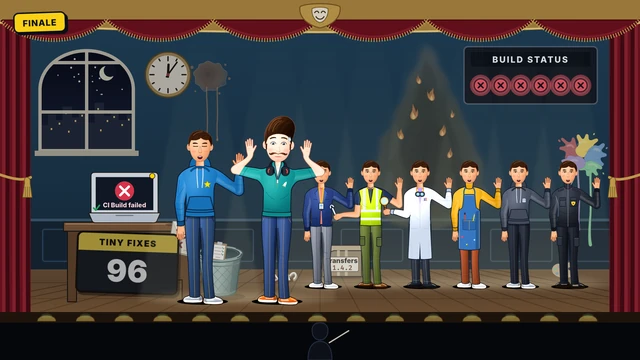
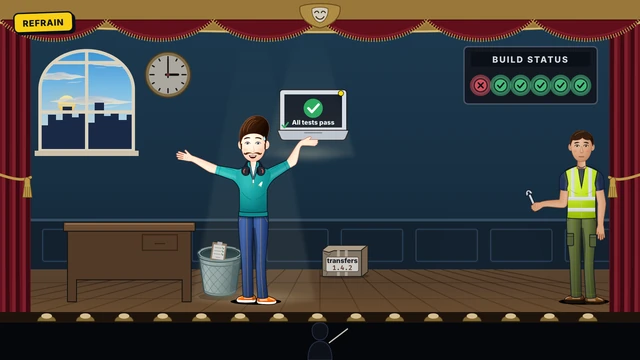
Polish My Teammate skies and parcel lighting

diff --git a/js/song-video/opera-house.js b/js/song-video/opera-house.js
@@ -30,6 +30,53 @@
   const SKIES = ['day', 'dusk', 'night', 'dawn'];
   const BOARD_LAMPS = 6;
 
+  // Thin, uneven banks suit the small city window. Their tapered ends and
+  // overlapping folds carry the volume without noisy texture or hard outlines.
+  const CLOUD_BANKS = [
+    { x: -22, y: 30, scale: 0.74, speed: 0.022, shade: 1.6,
+      shape: 'M0 12 C12 11 15 8 27 9 C35 10 38 4 49 5 C59 6 64 0 75 3 C84 5 85 8 96 8 C106 8 113 12 125 13 C110 15 103 14 94 17 C84 19 79 16 69 18 C59 20 52 17 42 18 C28 18 20 13 0 12 Z' },
+    { x: 77, y: 14, scale: 0.54, speed: 0.012, shade: 0.65,
+      shape: 'M0 13 C15 12 21 8 33 9 C43 10 45 5 56 6 C67 7 72 1 83 4 C94 7 99 5 109 10 C116 13 124 12 134 14 C116 15 108 18 96 17 C85 16 79 21 67 18 C53 16 46 19 35 16 C20 13 13 15 0 13 Z' },
+    { x: 12, y: 62, scale: 0.94, speed: 0.017, shade: 2.3,
+      shape: 'M0 15 C12 14 20 10 30 11 C40 12 44 6 55 7 C66 8 70 3 81 6 C92 9 98 8 108 12 C116 15 124 14 137 16 C122 17 115 20 104 19 C93 18 87 22 76 20 C64 18 58 22 46 19 C33 16 20 18 0 15 Z' },
+  ];
+
+  /** Layers in front of the celestial bodies, behind the city and mullions. */
+  function windowClouds(parent, defs, gradient) {
+    const ambient = gradient('oh-cloud-ambient', { x1: 0, y1: 0, x2: 0, y2: 1 }, ['0', '0.52', '1']);
+    const direct = gradient('oh-cloud-direct', { x1: 0, y1: 0, x2: 0, y2: 1 }, ['0', '0.55', '1']);
+    return CLOUD_BANKS.map((bank, i) => {
+      const node = svg('g', { class: 'oh-cloud', 'data-testid': 'oh-window-cloud' }, parent);
+      const form = svg('g', { transform: `scale(${bank.scale})` }, node);
+      const clipId = `oh-cloud-clip-${i}`;
+      svg('path', { d: bank.shape }, svg('clipPath', { id: clipId }, defs));
+      svg('path', { d: bank.shape, fill: ambient }, form);
+      const rim = svg('path', { class: 'oh-cloud-light', d: bank.shape, fill: direct }, form);
+      const folds = svg('g', { 'clip-path': `url(#${clipId})`, class: 'oh-cloud-folds' }, form);
+      svg('path', { d: bank.shape, transform: 'translate(20 5) scale(0.62 0.7)' }, folds);
+      svg('path', { class: 'oh-cloud-wisp', d: 'M7 21 C22 18 30 21 42 20 C34 24 24 23 7 21 Z M80 25 C92 21 100 24 115 20 C106 26 94 25 80 25 Z', fill: ambient }, form);
+      return { ...bank, node, rim };
+    });
+  }
+
+  /** Atmospheric detail uses the existing sky cue's blend, not a new clock.
+   * Low cloud banks lose their warm underside before the higher thin bank.
+   * Drift is slow, one-way, and deterministic; reduced motion holds it still. */
+  function lightWindow(back, t, sunNow, nightness) {
+    const warmth = Math.min(1, (1 - sunNow) / 0.7);
+    // Both the gradient stops in <defs> and their painted shapes inherit here.
+    back.art.style.setProperty('--oh-sky-warmth', `${(100 * warmth).toFixed(2)}%`);
+    back.art.style.setProperty('--oh-sky-night', `${(100 * nightness).toFixed(2)}%`);
+    back.haze.setAttribute('opacity', ((0.12 + 0.68 * warmth) * (1 - nightness)).toFixed(3));
+    back.sunGlow.setAttribute('cy', (150 - 70 * sunNow).toFixed(1));
+    back.sunGlow.setAttribute('opacity', (0.45 * sunNow).toFixed(3));
+    for (const cloud of back.clouds) {
+      const x = cloud.x + (reducedMotion.matches ? 0 : t * cloud.speed);
+      cloud.node.setAttribute('transform', `translate(${x.toFixed(2)} ${cloud.y})`);
+      cloud.rim.setAttribute('opacity', ((0.35 + 0.5 * warmth) * (1 - nightness) ** cloud.shade).toFixed(3));
+    }
+  }
+
   /** The value of cues [time, value, duration] at t, easing between them; numbers only. */
   function cued(cues, t, initial) {
     let value = initial;
@@ -65,17 +112,24 @@
     const pane = 'M0 150 V58 A70 58 0 0 1 140 58 V150 Z';
     const clip = svg('clipPath', { id: 'oh-window-clip' }, defs);
     svg('path', { d: pane }, clip);
-    const sky = svg('g', { 'clip-path': 'url(#oh-window-clip)' }, win);
+    const sky = svg('g', { class: 'oh-window-sky', 'data-testid': 'oh-window-sky', 'clip-path': 'url(#oh-window-clip)' }, win);
     const skies = SKIES.map((name) => {
-      const fill = gradient(`oh-sky-${name}`, { x1: 0, y1: 0, x2: 0, y2: 1 }, ['0', '1']);
+      const fill = gradient(`oh-sky-${name}`, { gradientUnits: 'userSpaceOnUse', x1: 0, y1: 0, x2: 0, y2: 150 }, ['0', '0.38', '0.7', '1']);
       return svg('rect', { class: `oh-sky oh-sky--${name}`, x: 0, y: 0, width: 140, height: 150, fill, opacity: name === 'day' ? 1 : 0 }, sky);
     });
     const stars = svg('g', { class: 'oh-stars', opacity: 0 }, sky);
     for (let i = 0; i < 16; i++) svg('circle', { cx: (10 + hash01(i * 7) * 120).toFixed(1), cy: (12 + hash01(i * 13) * 60).toFixed(1), r: (0.7 + hash01(i * 3) * 0.8).toFixed(2) }, stars);
+    const hazeFill = gradient('oh-horizon-haze', { cx: 0.5, cy: 0.5, r: 0.5 }, ['0', '0.45', '1'], 'radialGradient');
+    const haze = svg('ellipse', { class: 'oh-horizon-haze', cx: 40, cy: 98, rx: 104, ry: 64, fill: hazeFill }, sky);
+    const glowFill = gradient('oh-sun-glow', { cx: 0.5, cy: 0.5, r: 0.5 }, ['0', '0.4', '1'], 'radialGradient');
+    const sunGlow = svg('ellipse', { cx: 40, cy: 112, rx: 37, ry: 32, fill: glowFill }, sky);
     const moon = svg('g', { class: 'oh-moon', opacity: 0 }, sky);
+    svg('circle', { cx: 100, cy: 34, r: 11 }, svg('clipPath', { id: 'oh-moon-disc' }, defs));
     svg('circle', { cx: 100, cy: 34, r: 11 }, moon);
-    svg('circle', { class: 'oh-moon-shadow', cx: 105, cy: 30, r: 9.4 }, moon);
-    const sun = svg('circle', { class: 'oh-sun', cx: 40, cy: 112, r: 13 }, sky);
+    svg('circle', { class: 'oh-moon-shadow', cx: 105, cy: 30, r: 9.4, 'clip-path': 'url(#oh-moon-disc)' }, moon);
+    const sunFill = gradient('oh-sun-disc', { x1: 0, y1: 0, x2: 0, y2: 1 }, ['0', '0.55', '1']);
+    const sun = svg('circle', { class: 'oh-sun', cx: 40, cy: 112, r: 13, fill: sunFill }, sky);
+    const clouds = windowClouds(sky, defs, gradient);
     svg('path', { class: 'oh-skyline', d: 'M0 150 V112 H12 V96 H24 V104 H34 V84 H48 V100 H58 V90 H70 V108 H82 V78 H96 V98 H106 V92 H118 V104 H130 V96 H140 V150 Z' }, sky);
     const lit = svg('g', { class: 'oh-city-lights', opacity: 0 }, sky);
     for (const [x, y] of [[16, 116], [28, 108], [38, 92], [52, 104], [62, 96], [86, 86], [100, 104], [110, 98], [122, 110], [132, 102], [42, 120], [90, 118]]) {
@@ -127,7 +181,7 @@
     svg('path', { class: 'oh-floor-seam', d: `M0 ${OPENING.floor + 20} H${W} M0 ${OPENING.floor + 44} H${W}` }, art);
     svg('rect', { class: 'oh-floor-glow', x: 0, y: OPENING.floor + 18, width: W, height: OPENING.edge - OPENING.floor - 18, fill: gradient('oh-footglow', { x1: 0, y1: 0, x2: 0, y2: 1 }, ['0', '1']) }, art);
 
-    return { clock: { hourHand, minuteHand }, skies, stars, moon, sun, lit, lamps };
+    return { art, clock: { hourHand, minuteHand }, skies, stars, moon, sun, lit, lamps, haze, sunGlow, clouds };
   }
 
   /** A velvet drape with folds: its lit ridges and shadowed troughs. */
@@ -276,6 +330,7 @@
       const sunNow = sunUp(previous) + (sunUp(shown) - sunUp(previous)) * mix;
       back.sun.setAttribute('opacity', sunNow.toFixed(3));
       back.sun.setAttribute('cy', (150 - 70 * sunNow).toFixed(1));
+      lightWindow(back, t, sunNow, nightness);
       // The board: the latest cue's lamps, each lit after its delay.
       let cue = null;
       for (const c of boardCues) if (c[0] <= t) cue = c;

diff --git a/css/song-video-opera-house.css b/css/song-video-opera-house.css
@@ -26,18 +26,47 @@
 /* The window and its skies. */
 .oh-window-frame { fill: none; stroke: #e7dfcb; stroke-width: 5; stroke-linejoin: round; }
 .oh-window-sill { fill: #d8cfb8; }
-.oh-sky-day-stop-0 { stop-color: #7cc3f2; }
-.oh-sky-day-stop-1 { stop-color: #cdeafd; }
-.oh-sky-dusk-stop-0 { stop-color: #5a3f86; }
-.oh-sky-dusk-stop-1 { stop-color: #f08f55; }
-.oh-sky-night-stop-0 { stop-color: #070d22; }
-.oh-sky-night-stop-1 { stop-color: #1b2850; }
-.oh-sky-dawn-stop-0 { stop-color: #8fbde8; }
-.oh-sky-dawn-stop-1 { stop-color: #ffb07a; }
+.oh-back .oh-art { --oh-sky-warmth: 0%; --oh-sky-night: 0%; }
+.oh-sky-day-stop-0 { stop-color: #4c9dd9; }
+.oh-sky-day-stop-1 { stop-color: #8bc8ec; }
+.oh-sky-day-stop-2 { stop-color: #c2e3f2; }
+.oh-sky-day-stop-3 { stop-color: #eff0db; }
+.oh-sky-dusk-stop-0 { stop-color: #354b84; }
+.oh-sky-dusk-stop-1 { stop-color: #856492; }
+.oh-sky-dusk-stop-2 { stop-color: #e98b70; }
+.oh-sky-dusk-stop-3 { stop-color: #ffd18b; }
+.oh-sky-night-stop-0 { stop-color: #071329; }
+.oh-sky-night-stop-1 { stop-color: #14243d; }
+.oh-sky-night-stop-2 { stop-color: #26344f; }
+.oh-sky-night-stop-3 { stop-color: #454159; }
+.oh-sky-dawn-stop-0 { stop-color: #526da6; }
+.oh-sky-dawn-stop-1 { stop-color: #929abf; }
+.oh-sky-dawn-stop-2 { stop-color: #efb5a7; }
+.oh-sky-dawn-stop-3 { stop-color: #ffdc9c; }
 .oh-stars circle { fill: #f4f1dc; }
 .oh-moon circle { fill: #f6f0d6; }
-.oh-moon .oh-moon-shadow { fill: #0e1736; }
-.oh-sun { fill: #ffd94a; }
+/* The unlit lunar surface shares the sky's coordinates, avoiding a flat
+ * blue cutout against the new gradient while still occluding distant stars. */
+.oh-moon .oh-moon-shadow { fill: url(#oh-sky-night); }
+.oh-sun-disc-stop-0 { stop-color: color-mix(in srgb, #fff3c0, #ffb25f var(--oh-sky-warmth)); }
+.oh-sun-disc-stop-1 { stop-color: color-mix(in srgb, #ffe292, #fa813f var(--oh-sky-warmth)); }
+.oh-sun-disc-stop-2 { stop-color: color-mix(in srgb, #ffc765, #dc5533 var(--oh-sky-warmth)); }
+.oh-horizon-haze-stop-0 { stop-color: #ffd38b; stop-opacity: 0.8; }
+.oh-horizon-haze-stop-1 { stop-color: #ef945f; stop-opacity: 0.36; }
+.oh-horizon-haze-stop-2 { stop-color: #d96561; stop-opacity: 0; }
+.oh-sun-glow-stop-0 { stop-color: #fff2bd; stop-opacity: 0.65; }
+.oh-sun-glow-stop-1 { stop-color: #ffce8b; stop-opacity: 0.23; }
+.oh-sun-glow-stop-2 { stop-color: #f3aa7e; stop-opacity: 0; }
+/* Cool cloud volume and warm lower rims respond to the same sky cue. The
+ * opaque bodies cover stars; only the thin torn wisps transmit sky light. */
+.oh-cloud-ambient-stop-0 { stop-color: color-mix(in srgb, color-mix(in srgb, #adc5d8, #78829c var(--oh-sky-warmth)), #19283f var(--oh-sky-night)); }
+.oh-cloud-ambient-stop-1 { stop-color: color-mix(in srgb, color-mix(in srgb, #dce8ef, #baa8b3 var(--oh-sky-warmth)), #25344b var(--oh-sky-night)); }
+.oh-cloud-ambient-stop-2 { stop-color: color-mix(in srgb, color-mix(in srgb, #f2f3e8, #d7b4a2 var(--oh-sky-warmth)), #304058 var(--oh-sky-night)); }
+.oh-cloud-direct-stop-0 { stop-color: #ffddad; stop-opacity: 0; }
+.oh-cloud-direct-stop-1 { stop-color: #ffc888; stop-opacity: 0.22; }
+.oh-cloud-direct-stop-2 { stop-color: color-mix(in srgb, #fff4d3, #ffb16b var(--oh-sky-warmth)); }
+.oh-cloud-folds { fill: color-mix(in srgb, #7489a1, #101d31 var(--oh-sky-night)); opacity: 0.18; }
+.oh-cloud-wisp { opacity: 0.48; }
 .oh-skyline { fill: #24324d; }
 .oh-city-lights rect { fill: #ffd36b; }
 

diff --git a/js/song-video/songs/it_works_on_my_machine.js b/js/song-video/songs/it_works_on_my_machine.js
@@ -128,6 +128,10 @@
     const CI_FAILED = mark('outro-1', 'strange') - 1;
     const CI_RUNNING = CI_FAILED - 3;
     const ciFocus = [CI_RUNNING, line('outro-1').start + 0.7];
+    const mailFocus = [line('build-4').start - 0.2, line('refrain-1-1').start - 0.2];
+    lighting.subject(layers.stage.querySelector('.oh-window'), {
+      kind: 'window', windows: [[0, Infinity]], recesses: [mailFocus],
+    });
     lighting.subject(layers.stage.querySelector('.oh-board'), {
       kind: 'board', windows: [...issueReveals.slice(1).map(at => [at - 0.2, at + 2.8]),
         [CI_RUNNING, line('outro-3').start]],
@@ -454,8 +458,13 @@
       // goes into a box marked OVERNIGHT; a FRAGILE label slaps on; he
       // clutches his head.
       behind.push(() => {
-        const mail = kit.scene(content, line(v(4)).start - 0.2, line('refrain-1-1').start - 0.2, { exit: 'fade' });
-        M.shippingBox(mail, { x: 470, y: 316, at: line(v(4)).start - 0.1, labelAt: mark(v(4), 'mail') });
+        // A warm pool guides the eye to the joke while the speaker and the
+        // Teammate's reaction retain their own full lights.
+        const beam = M.spot(content, () => ({ where: () => ({ x: 555, y: 432, scale: 0.95 }) }), { from: mailFocus[0], to: mailFocus[1] });
+        beam.dataset.testid = 'tm-mail-spot';
+        const mail = kit.scene(content, ...mailFocus, { exit: 'fade' });
+        const box = M.shippingBox(mail, { x: 470, y: 316, at: line(v(4)).start - 0.1, labelAt: mark(v(4), 'mail') });
+        lighting.subject(box, { kind: 'shipping', windows: [mailFocus] });
       });
       behind.push(() => {
         const drop = kit.scene(content, mark(v(4), 'ship') - 0.2, mark(v(4), 'laptop') + 0.6, { exit: 'fade' });

diff --git a/css/song-video-teammate-lighting.css b/css/song-video-teammate-lighting.css
@@ -41,6 +41,24 @@
   --tm-rest-contrast: 1;
   --tm-key-contrast: 1;
 }
+.tm-lit--shipping {
+  --tm-rest-brightness: 1;
+  --tm-key-brightness: 1.1;
+  --tm-rest-chroma: 1;
+  --tm-key-chroma: 1.12;
+  --tm-rest-contrast: 1;
+  --tm-key-contrast: 1.055;
+}
+/* Preserve white-label contrast when the parcel catches the warmer key. */
+.tm-lit--shipping .mk-shipping-label-head { background: #bb2340; }
+.tm-lit--window {
+  --tm-rest-brightness: 0.78;
+  --tm-key-brightness: 0.92;
+  --tm-rest-chroma: 0.94;
+  --tm-key-chroma: 1.12;
+  --tm-rest-contrast: 1.03;
+  --tm-key-contrast: 1.06;
+}
 .tm-lit--detail {
   --tm-rest-brightness: 0.68;
   --tm-key-brightness: 1;
@@ -60,7 +78,6 @@
 .tm-lighting .oh-floor-stop-0 { stop-color: #5b4430; }
 .tm-lighting .oh-floor-stop-1 { stop-color: #37291e; }
 .tm-lighting .oh-footglow-stop-1 { stop-opacity: 0.17; }
-.tm-lighting .oh-window { filter: brightness(0.69) saturate(0.78); }
 .tm-lighting .oh-front { filter: brightness(0.84) saturate(0.92); }
 .tm-lighting .mk-desk { filter: brightness(0.8) saturate(0.83) contrast(0.96); }
 .tm-lighting .song-student-avatar { filter: brightness(0.94) saturate(0.985); }
